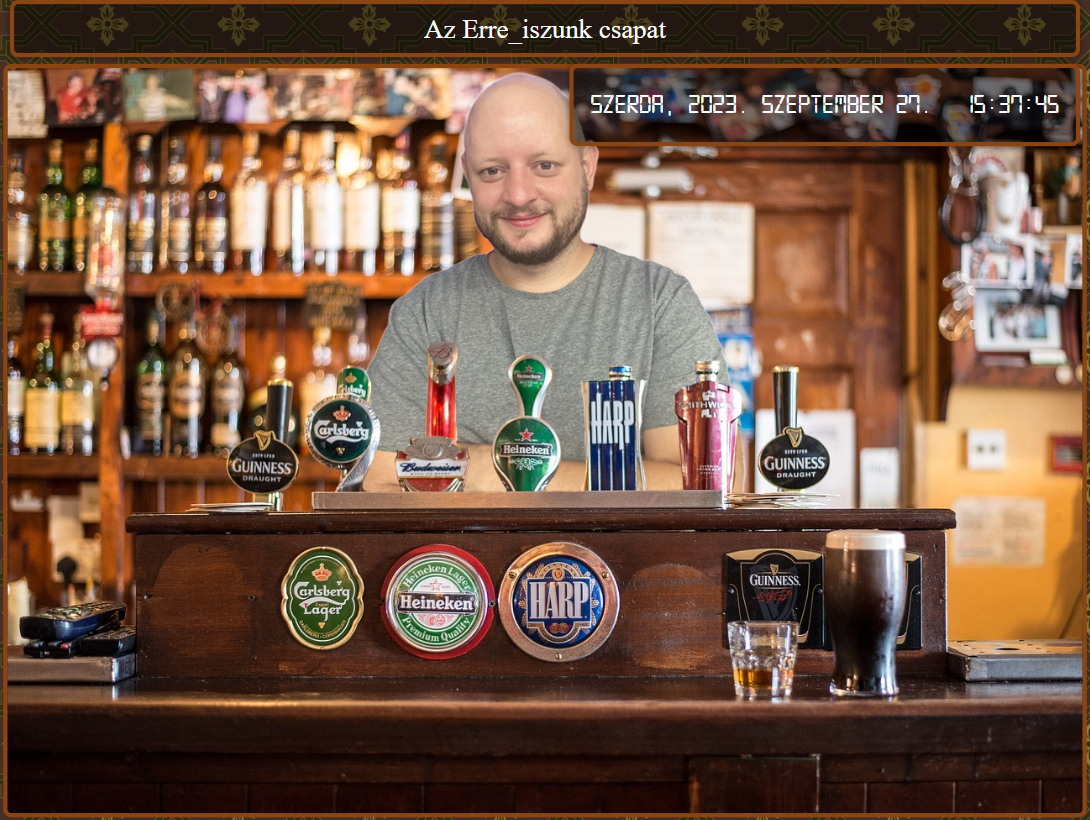
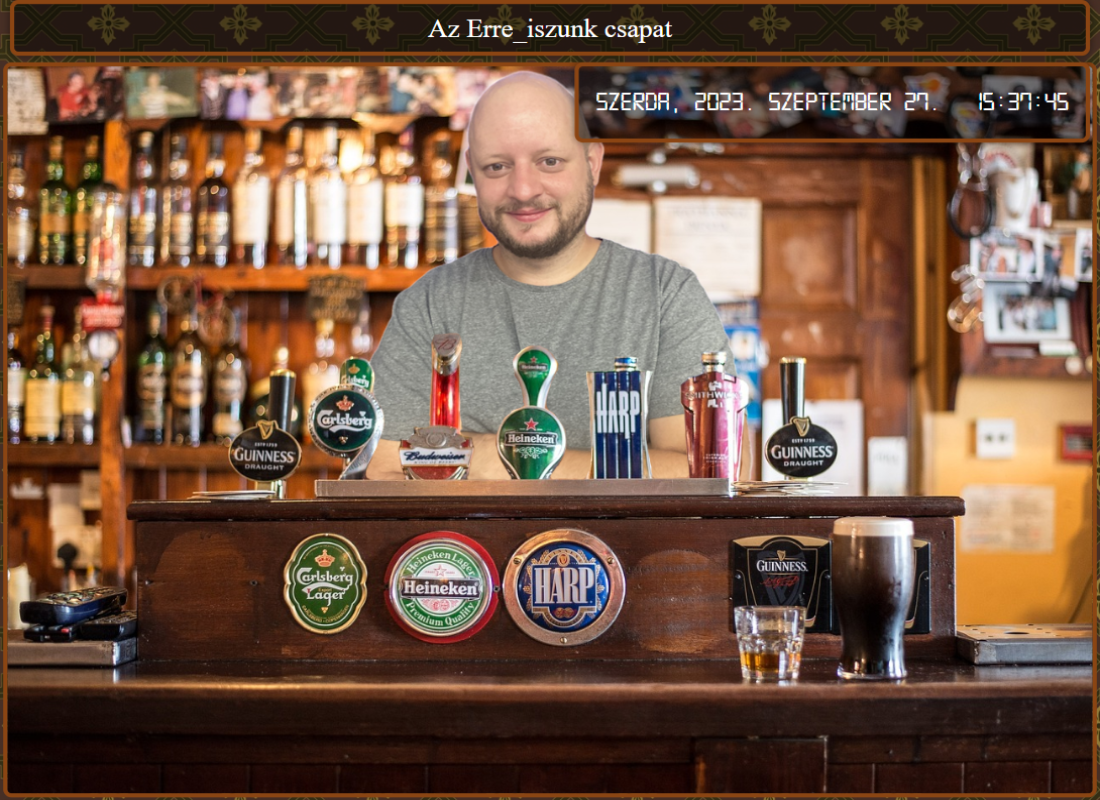
kepek fix

diff --git a/1. forduló/style.css b/1. forduló/style.css
@@ -38,6 +38,5 @@ img {
 
 #kep,
 #kep1{
-  height: 700px;
-  width: fit-content;
+  height: 25%;
 }
